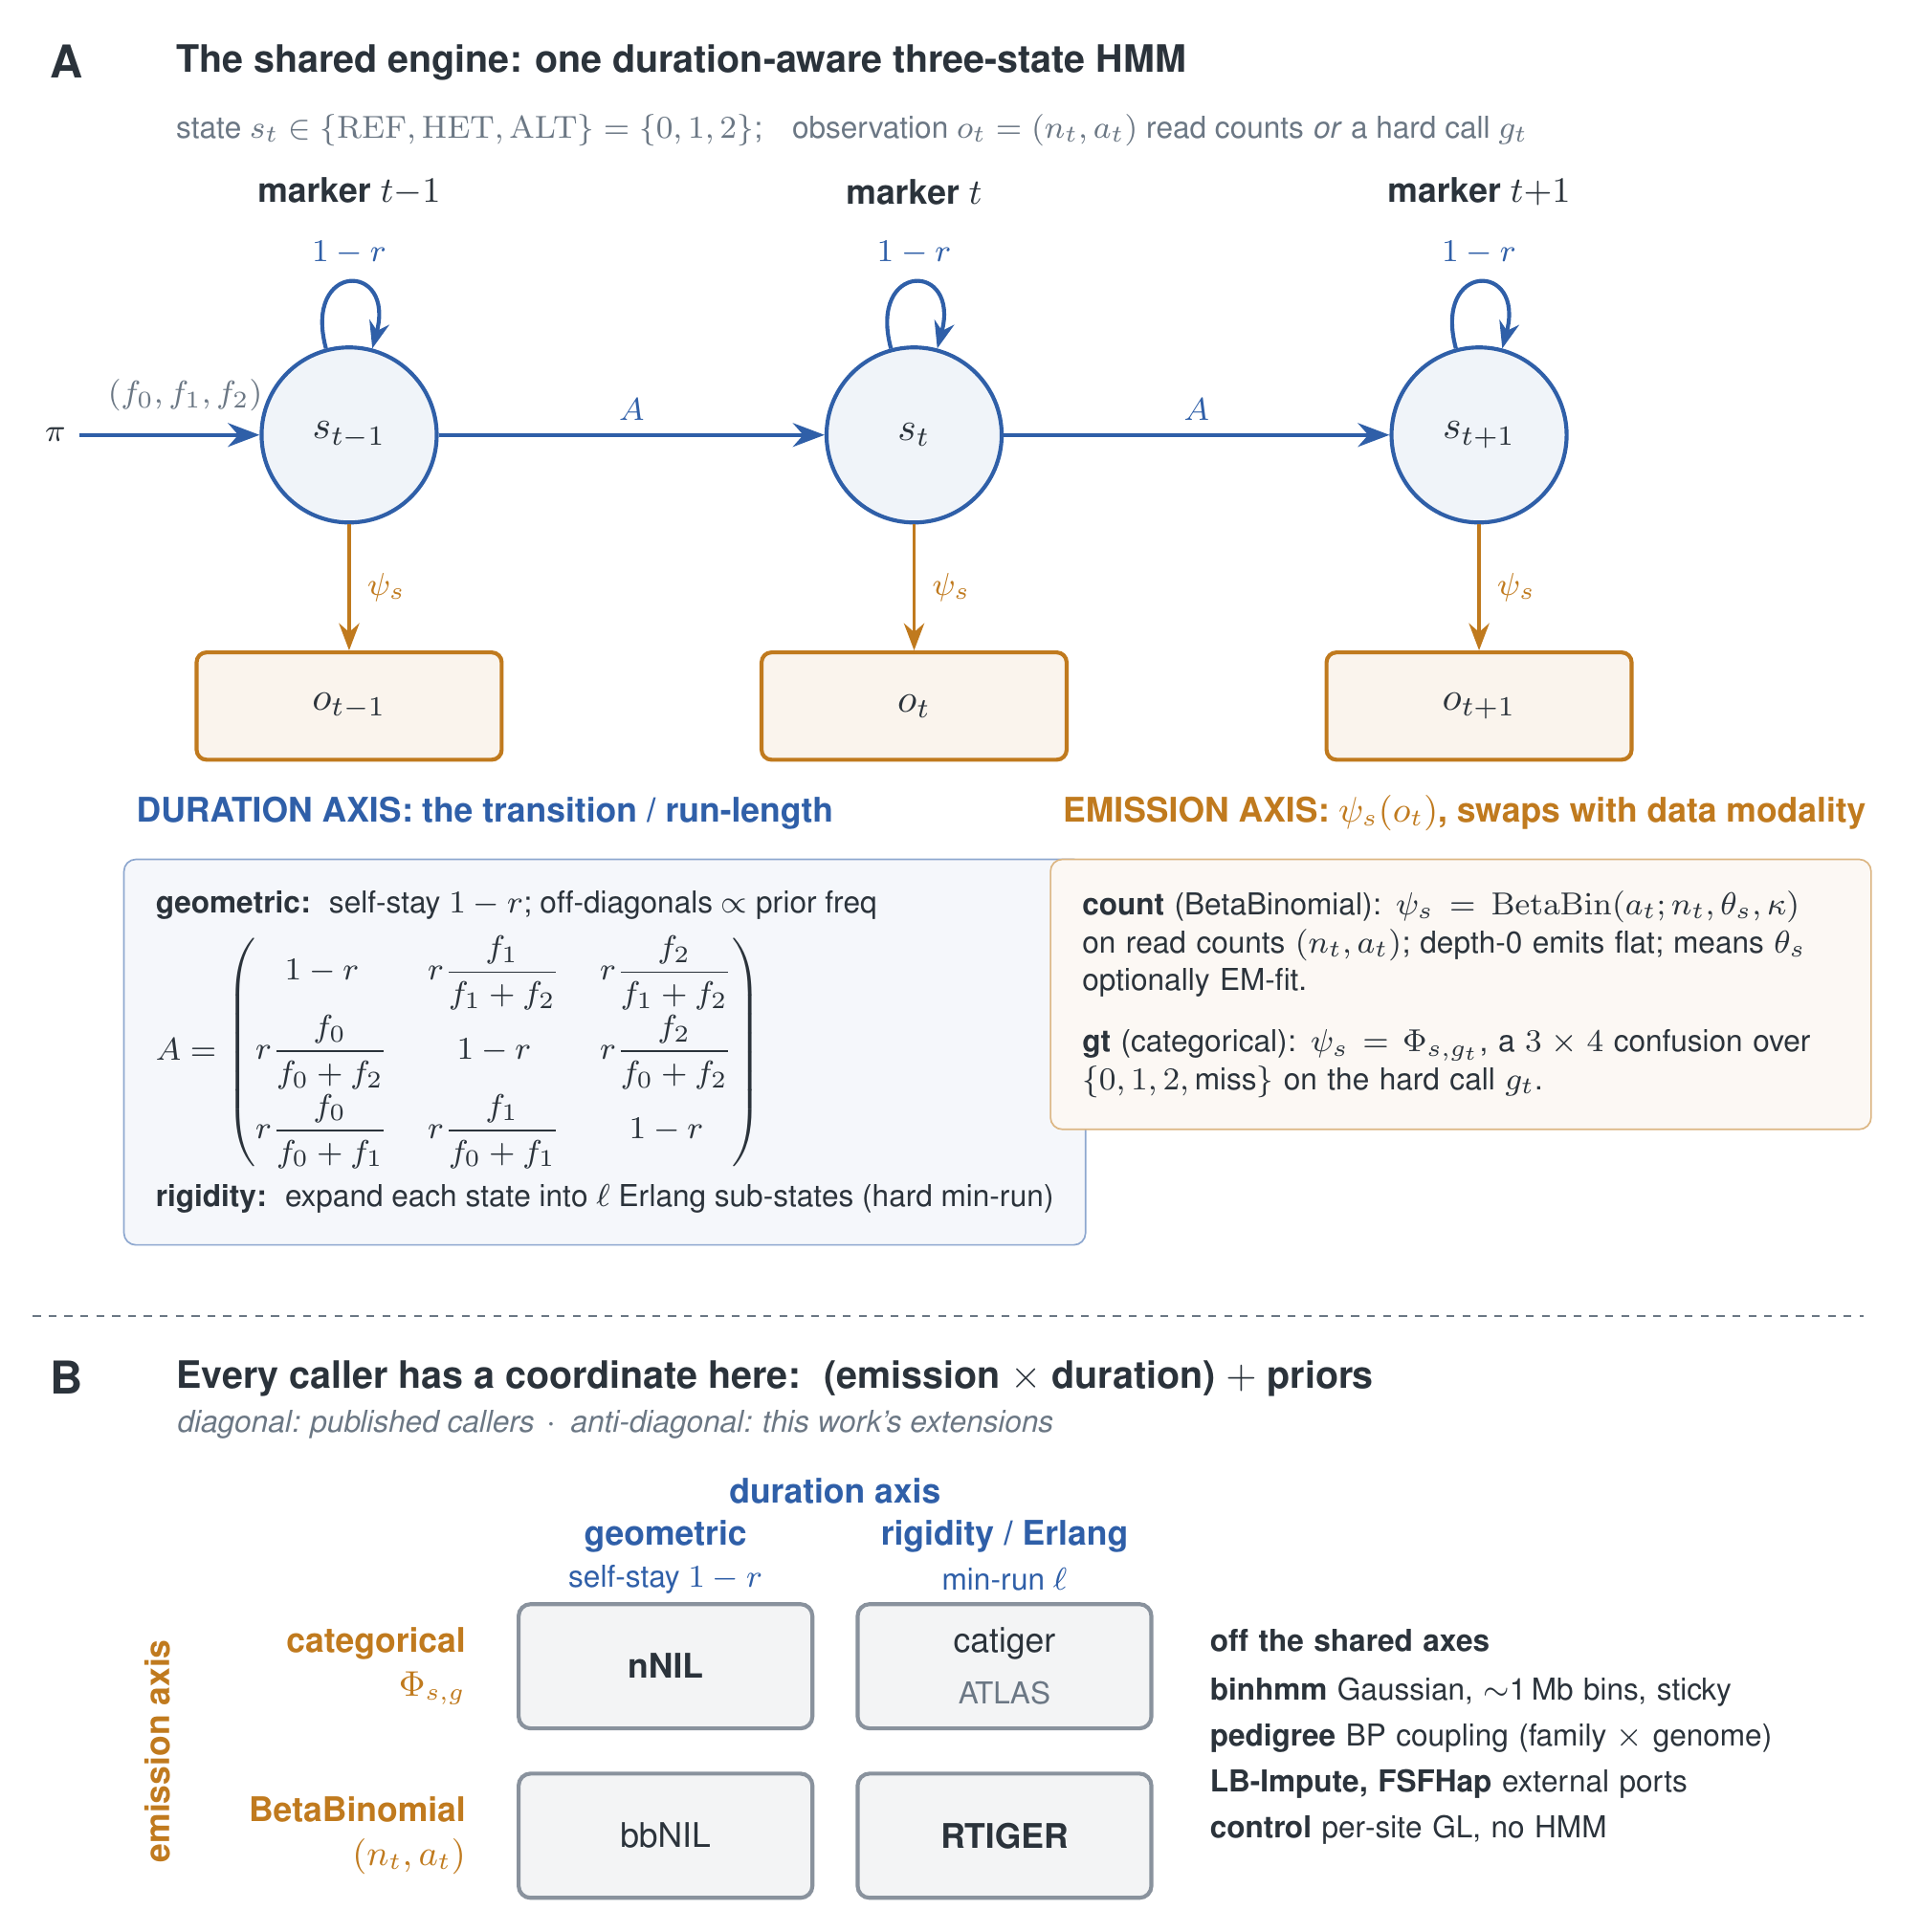
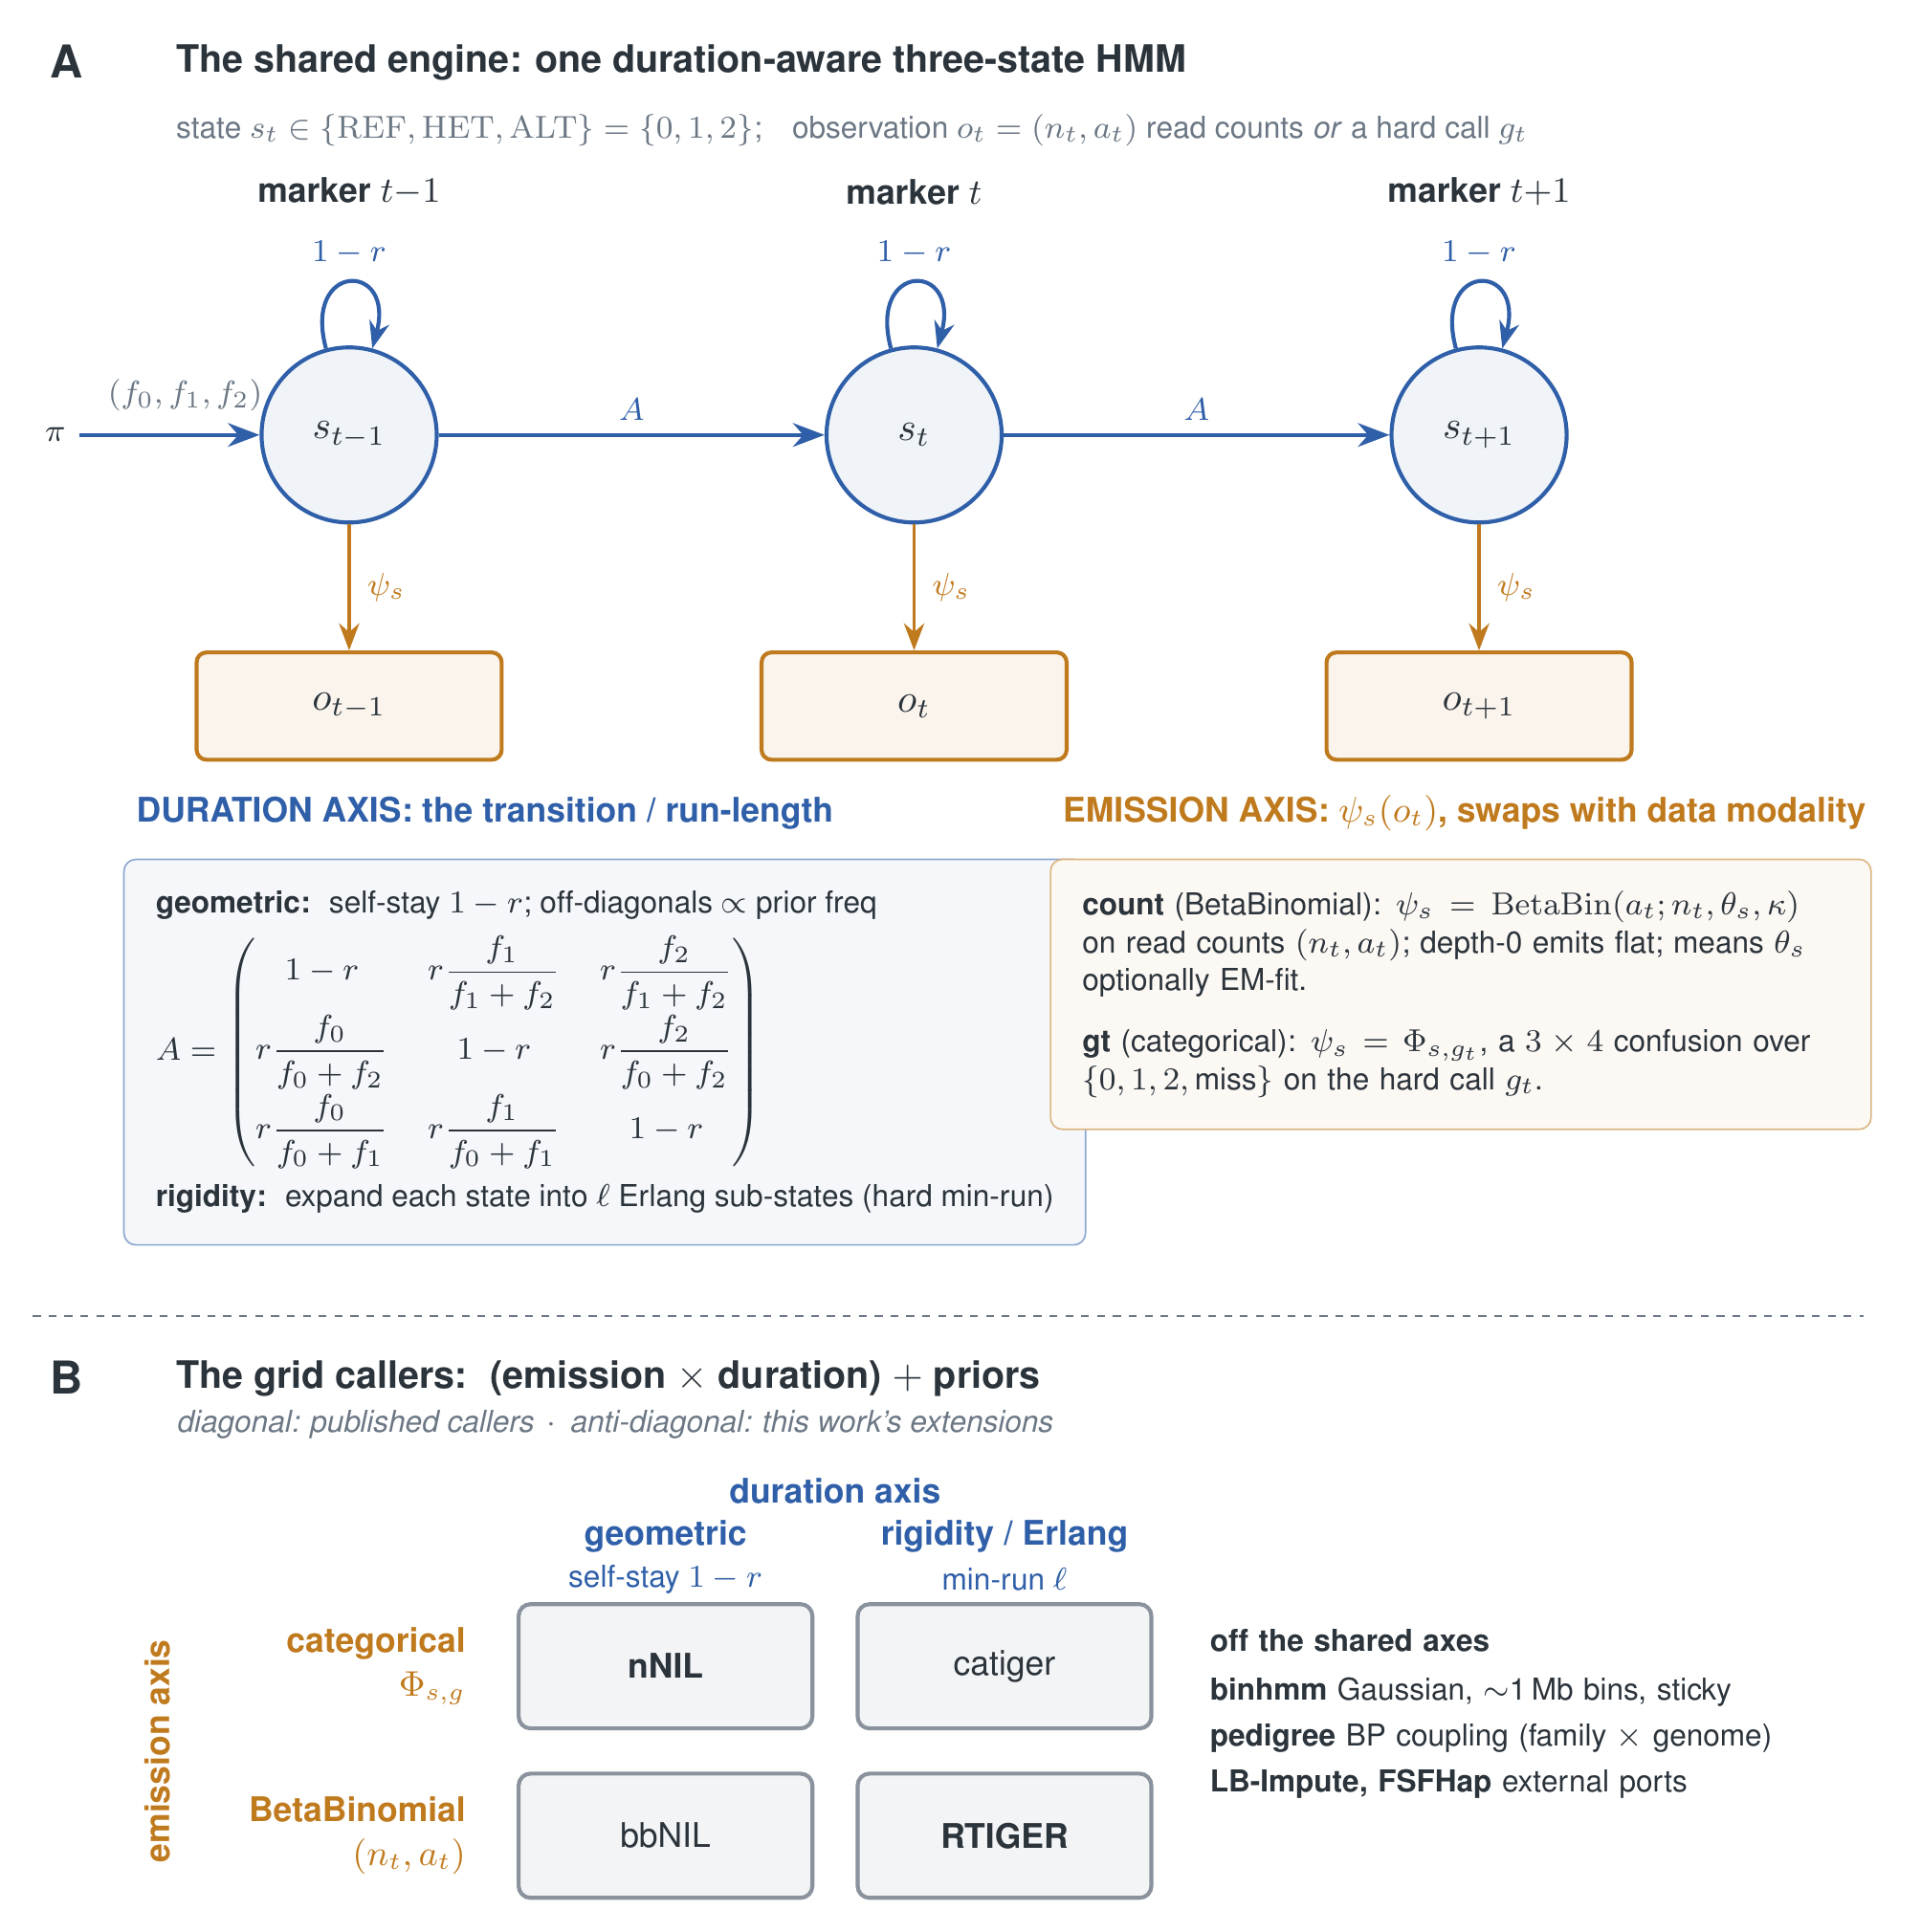
docs: correct ATLAS/GOOGA caller taxonomy; fix engine figure and caller table
Callers:
- GOOGA and ATLAS are the GOOGA-threshold categorical variants (competitive/
  ASE transcript data): GOOGA = categorical x geometric, a faithful port of
  Flagel's HMM (recombination-fraction transitions, no rigidity); ATLAS =
  categorical x rigidity, this work (min-run for sparse per-gene calls).
  Verified against nilHMM (R/engine.R caller enum) and Flagel 2019 / Veltsos
  2024. Reverses the earlier "ATLAS = GOOGA + catiger/nNIL" framing.

Fig 1 (fig:engine, figures/fig_engine.tex):
- panel B stays the 2x2 archetype grid (nNIL/catiger, bbNIL/RTIGER)
- catiger set non-bold to match bbNIL (this-work callers regular, published bold)
- removed the control caller (it is a genotype caller, not an ancestry caller)
- header "Every caller has a coordinate here" -> "The grid callers" (no overclaim)

Fig 2 (dispatcher, figures/dispatcher.tex):
- categorical channel now shows the threshold split: SNP/dosage arrays (plain
  hard calls) -> nNIL/catiger; GOOGA-thresholded transcripts -> GOOGA/ATLAS

Table 4 (tab:callers) + S4 prose (supplement_engine_math.tex):
- added GOOGA row and a threshold column; ATLAS moved to rigidity
- removed the control row; reworded control as the call_gt() genotype-MAP
  baseline, deliberately outside the ancestry-caller family

main.tex prose:
- removed the "every caller has a coordinate" overclaim (configuration of the
  engine for all callers; coordinate only for the four grid callers)
[…]

diff --git a/supplement_engine_math.tex b/supplement_engine_math.tex
@@ -567,41 +567,51 @@ given there.
 The named callers are not separate programs but points in the engine's
 $(\text{emission}\times\text{duration}+\text{priors})$ space
 (Table~\ref{tab:callers}; main-text Fig.~1; the data-channel view is Fig.~\ref{fig:dispatcher}). Four are the pure cells of the shared engine of
-Text~S3 --- the $(\text{emission}\times\text{duration})$ grid; a fifth, ATLAS, wraps GOOGA
-thresholding around catiger for competitive-mapping / ASE data; binhmm is an off-axis Gaussian
-track; two are faithful ports of external biparental imputers, carried as baselines; and one is a
+Text~S3 --- the $(\text{emission}\times\text{duration})$ grid; on the categorical emission a
+hard-call thresholding front-end splits each cell by data type, so GOOGA and ATLAS occupy the two
+categorical coordinates reached through GOOGA transcript thresholding (of competitive-alignment RNA)
+rather than the hard calls arrays already provide (GOOGA geometric, a faithful port; ATLAS rigidity, this
+work); binhmm is an off-axis Gaussian
+track; the family-coupled pedigree caller (Text~\ref{sec:pedigree}) adds a structural axis beyond the
+grid; two are faithful ports of external biparental imputers, carried as baselines; and one is a
 deliberately unsmoothed control. These biparental-population callers are the
 low-coverage analogues of the population-scale local-ancestry and haplotype-imputation
 HMMs \citep{falush_2003,hapmix_2009,rfmix_2013,ancestryhmm_2017,mosaic_2019,mach_2010,beagle_2007,stitch_2016,glimpse_2021},
 whose common premise --- that linkage structure reduces per-marker genotype
 uncertainty and thereby raises association power \citep{marchini_howie_2010} --- is
 the same one Text~S7 formalizes.
-\begin{table}[t]
+\begin{table}[tbp]
 \centering
-\small
-\begin{tabular}{@{}l l l l >{\raggedright\arraybackslash}p{4.6cm}@{}}
+\footnotesize
+\setlength{\tabcolsep}{3.5pt}
+\begin{tabular}{@{}l l l l l >{\raggedright\arraybackslash}p{4.3cm}@{}}
 \toprule
-caller & emission & duration & key param & role \\
+caller & emission & threshold & duration & key param & role \\
 \midrule
-nNIL      & categorical GT       & geometric            & \texttt{rrate}      & Holland's original nNIL; hard-call baseline \\
-catiger   & categorical GT       & rigidity             & \texttt{rigidity}   & hard-call $+$ min.\ run length; the categorical-rigidity caller \\
-bbNIL     & count / BetaBin      & geometric            & \texttt{rrate}      & low-coverage count extension; the self-transition \emph{is} the smoother \\
-RTIGER    & count / BetaBin      & rigidity             & \texttt{rigidity}   & min.\ run length; robust at low depth (Julia-free port) \\
-ATLAS     & categorical GT       & rigidity             & GOOGA thresh        & competitive-mapping (ASE) ancestry; wraps GOOGA thresholding around catiger \\
+nNIL      & categorical GT       & ---     & geometric            & \texttt{rrate}      & Holland's original nNIL; hard-call baseline \\
+catiger   & categorical GT       & ---     & rigidity             & \texttt{rigidity}   & hard-call $+$ min.\ run length (this work) \\
+GOOGA     & categorical GT       & GOOGA   & geometric            & \texttt{rrate}      & competitive-mapping (ASE) ancestry; faithful port of Flagel's HMM \\
+ATLAS     & categorical GT       & GOOGA   & rigidity             & \texttt{rigidity}   & GOOGA thresholds $+$ min.\ run for sparse per-gene calls (this work) \\
+bbNIL     & count / BetaBin      & ---     & geometric            & \texttt{rrate}      & low-coverage count extension; the self-transition \emph{is} the smoother \\
+RTIGER    & count / BetaBin      & ---     & rigidity             & \texttt{rigidity}   & min.\ run length; robust at low depth (Julia-free port) \\
 \midrule
-binhmm    & Gaussian / $1$\,Mb bins & sticky            & bin width           & pre-bin $\to$ 3-state Gaussian HMM; full SNP density (skim) \\
-LB-Impute & external             & linkage-decay dist.\ & \texttt{recombdist} & Fragoso \emph{et al.}\ biparental imputer (ported baseline) \\
-FSFHap    & external             & family-pooled EM     & \texttt{phet}       & TASSEL parent-call $+$ 5-state EM (ported baseline) \\
-control   & per-site GL, no HMM  & ---                  & ---                 & het-prone no-HMM baseline; the het-excess reference \\
+binhmm    & Gaussian / $1$\,Mb bins & ---  & sticky            & bin width           & pre-bin $\to$ 3-state Gaussian HMM; full SNP density (skim) \\
+LB-Impute & external             & ---     & linkage-decay dist.\ & \texttt{recombdist} & Fragoso \emph{et al.}\ biparental imputer (ported baseline) \\
+FSFHap    & external             & ---     & family-pooled EM     & \texttt{phet}       & TASSEL parent-call $+$ 5-state EM (ported baseline) \\
+pedigree  & count or GT          & ---     & pedigree $\times$ genome BP & \texttt{design} & family-coupled belief propagation; couples relatives across the pedigree \\
 \bottomrule
 \end{tabular}
-\caption{The caller family. Top: the four pure $(\text{emission}\times\text{duration})$ cells of the
+\caption{The caller family. Top: the $(\text{emission}\times\text{duration})$ cells of the
 shared engine of Text~S3 --- \textbf{nNIL}/\textbf{catiger} (categorical confusion emission;
-geometric/rigidity) and \textbf{bbNIL}/\textbf{RTIGER} (BetaBinomial; geometric/rigidity) --- plus
-\textbf{ATLAS}, a caller that wraps GOOGA competitive-mapping (allele-specific-expression)
-thresholding around catiger for RNA ancestry. Bottom: an off-axis Gaussian track, two external
-ports, and the no-HMM control. RTIGER and TIGER \citep{rtiger_2023,tiger_2015}; LB-Impute
-\citep{lbimpute_2016}.}
+geometric/rigidity) and \textbf{bbNIL}/\textbf{RTIGER} (BetaBinomial; geometric/rigidity). The
+\emph{threshold} column marks the hard-call front-end that feeds the categorical emission: nNIL/catiger
+consume the hard genotype calls SNP/dosage arrays already provide (no named thresholding step), while
+\textbf{GOOGA} and \textbf{ATLAS} reach the same two categorical coordinates through GOOGA transcript
+thresholding of competitive-alignment (allele-specific-expression) RNA --- GOOGA geometric (a faithful
+port of Flagel's HMM), ATLAS rigidity (this work). Bottom: an off-axis
+Gaussian track, two external ports, and the family-coupled \textbf{pedigree} caller (Text~\ref{sec:pedigree}).
+RTIGER and TIGER \citep{rtiger_2023,tiger_2015};
+GOOGA/ATLAS \citep{flagel2019,veltsos2024}; LB-Impute \citep{lbimpute_2016}.}
 \label{tab:callers}
 \end{table}
 
@@ -610,10 +620,12 @@ ports, and the no-HMM control. RTIGER and TIGER \citep{rtiger_2023,tiger_2015}; 
 \includegraphics[width=\textwidth]{figures/dispatcher.png}
 \caption{\textbf{The caller family as a data-channel dispatcher.} The observation channel (the
 assay) determines the valid emission --- a specification constraint, since the counts must
-actually obey the emission model --- and only the duration remains a free choice. Hard
-genotypes (arrays), and competitive/ASE counts once GOOGA-thresholded, take the categorical
-emission (nNIL/catiger, and ATLAS); dosage read counts take the BetaBinomial (bbNIL/RTIGER);
-binned allele fractions take a Gaussian (binhmm). The red $\times$ arrows mark the
+actually obey the emission model --- and only the duration remains a free choice, except on the
+categorical emission, where a hard-call thresholding front-end also forks by data type. Hard
+genotypes (SNP arrays) take the categorical emission directly as calls (geometric/rigidity
+$\to$ nNIL/catiger); competitive/ASE transcript counts take it via GOOGA thresholds (geometric/rigidity
+$\to$ GOOGA/ATLAS); dosage read counts take the BetaBinomial (bbNIL/RTIGER); binned allele fractions
+take a Gaussian (binhmm). The red $\times$ arrows mark the
 easily-misused routes that feed the BetaBinomial data it cannot model --- hard genotypes as
 pseudo-counts, and ASE counts whose allele fraction is expression-confounded --- both into
 RTIGER.}
@@ -625,19 +637,27 @@ at the categorical confusion model, \textbf{nNIL} (geometric --- Holland's origi
 \textbf{catiger} (rigidity) differ only in duration; holding it at the BetaBinomial, \textbf{bbNIL}
 (geometric) and \textbf{RTIGER} (rigidity) do the same. Read across the other axis, nNIL/bbNIL share
 the geometric duration and catiger/RTIGER share rigidity, differing only in emission. \textbf{catiger}
-is the categorical$+$rigidity caller. \textbf{ATLAS} applies it to competitive-alignment RNA data:
-because expression and allele-specific expression confound the allele fraction (so the BetaBinomial
-cannot model it), ATLAS thresholds the competitive counts to hard calls (GOOGA) and runs catiger ---
-a wrapper caller, GOOGA $+$ catiger. \textbf{binhmm} pre-bins to $\sim$1\,Mb before a 3-state
+is the categorical$+$rigidity caller. \textbf{GOOGA} and \textbf{ATLAS} reach the two categorical
+coordinates through a different hard-call front-end, for competitive-alignment RNA / ASE data: because
+expression and allele-specific expression confound the allele fraction (so the BetaBinomial cannot model
+it), both threshold the competitive counts to hard calls through GOOGA's per-marker error-rate model
+\citep{flagel2019} and then run the categorical genotype-confusion emission. GOOGA pairs it with the
+geometric duration --- a faithful port whose Markov chain transitions on recombination fractions between
+adjacent markers with no minimum-run constraint \citep{flagel2019,veltsos2024}; ATLAS substitutes the
+rigidity duration, a minimum-run prior suited to the sparse per-gene calls of transcript data (this work).
+This GOOGA thresholding is a front-end on the categorical emission, not a grid axis; the dispatcher
+(Fig.~\ref{fig:dispatcher}) routes each data channel to its caller. \textbf{binhmm} pre-bins to $\sim$1\,Mb before a 3-state
 Gaussian HMM, the only track that keeps the full marker density on skim data.
 \textbf{LB-Impute} and \textbf{FSFHap} are ported verbatim as external baselines ---
 each carries its own transition/imputation model (a distance-dependent
 recombination decay, and per-family EM haplotype imputation, respectively) but emits
-the common segment schema, so they are directly comparable. The \textbf{control} is
-the per-site genotype-likelihood MAP of Text~S2 with \emph{no} transition model; it
+the common segment schema, so they are directly comparable. The \emph{control} baseline
+is deliberately \emph{not} a member of this caller family: it is the per-site
+\emph{genotype} caller \texttt{call\_gt()} of Text~S2 invoked directly (the HWE-prior
+MAP, with \emph{no} transition model), separate from the ancestry callers above. It
 isolates exactly what the duration prior buys, and (being het-prone at low coverage,
-Eq.~\eqref{eq:hwe-ratio}) is scored by its donor-called fraction on a known-recurrent
-control region --- the ``het-excess'' reference the HMM callers must beat.
+Eq.~\eqref{eq:hwe-ratio}) is scored by its donor-called fraction on a known
+recurrent-parent region --- the ``het-excess'' baseline every ancestry caller must beat.
 
 %======================================================================
 \section{The \texttt{simcross} model and single-locus validation}

diff --git a/main.tex b/main.tex
@@ -141,16 +141,21 @@ One HMM over states REF/HET/ALT (Figure~\ref{fig:engine}A). Two axes are swappab
 and define each caller: the \emph{emission} (count/BetaBinomial vs.\ categorical
 genotype-confusion) and the \emph{duration/rigidity} layer (geometric, rigidity, or
 HSMM). Design start-priors come from the pedigree (BC2S2/BC2S3). The engine is
-data-agnostic: $(\text{data}, \text{params}) \rightarrow \text{calls}$. Every named
-caller is a coordinate in this (emission $\times$ duration) space
-(Figure~\ref{fig:engine}B), and on real ZEAL NILs the callers produce concordant
-ancestry paint across data sources through this one engine (Figure~\ref{fig:paint}).
+data-agnostic: $(\text{data}, \text{params}) \rightarrow \text{calls}$. Each named
+caller is a configuration of this one engine, the grid callers being coordinates in
+its (emission $\times$ duration) space (Figure~\ref{fig:engine}B), and on real ZEAL NILs
+the callers produce concordant ancestry paint across data sources (Figure~\ref{fig:paint}).
 
 
 
 \subsection{The callers}
-Each named caller is a coordinate in the (emission $\times$ duration) grid
-(Figure~\ref{fig:engine}B); the four grid callers differ only along those two axes.
+The four grid callers are coordinates in the (emission $\times$ duration) grid
+(Figure~\ref{fig:engine}B), differing along those two axes. On the categorical
+emission a hard-call thresholding front-end additionally splits the channel by data
+type: SNP arrays deliver hard calls directly (nNIL, catiger), whereas
+competitive-alignment transcripts are thresholded to calls by GOOGA's error-rate model
+(GOOGA, ATLAS); this front-end is not a grid axis and is resolved by data channel in the
+dispatcher view.
 \subsubsection{nNIL} Categorical genotype-confusion emission with a geometric
 duration: Holland's original near-isogenic-line caller, on hard genotype calls
 \citep{zhong2025}.
@@ -162,10 +167,18 @@ minimum-run) duration in place of the free geometric one; a Julia-free port
 \citep{rtiger_2023}.
 \subsubsection{catiger} Categorical emission with the rigidity duration: the
 categorical$+$rigidity caller.
-\subsubsection{ATLAS} An RNA caller: because expression and allele-specific
-expression confound the competitive-alignment allele fraction (so the BetaBinomial
-cannot model it), ATLAS thresholds the competitive counts to hard genotype calls
-(GOOGA) and runs catiger: a wrapper, GOOGA $+$ catiger \citep{flagel2019,veltsos2024}.
+\subsubsection{GOOGA and ATLAS} The categorical route for competitive-alignment
+transcript data (BRB-seq RNA / ASE), where expression and allele-specific expression
+confound the allele fraction so the BetaBinomial cannot model it. Both threshold the
+competitive counts to hard genotype calls through GOOGA's per-marker error-rate model
+and then apply the categorical genotype-confusion emission; they differ only in
+duration. \textbf{GOOGA} pairs it with the geometric (recombination-fraction) duration,
+a faithful port of Flagel's HMM \citep{flagel2019,veltsos2024}, which transitions
+on recombination fractions between adjacent markers with no minimum-run constraint.
+\textbf{ATLAS} substitutes the rigidity duration, a minimum-run prior suited to the
+sparse per-gene calls of transcript data (this work). GOOGA and ATLAS thus sit at the
+same two categorical coordinates as nNIL and catiger, reached by thresholding transcript
+counts to calls rather than by consuming the hard calls arrays already provide.
 \subsubsection{binhmm} A three-state Gaussian emission on per-bin allele frequency
 with REF anchored at the coverage floor (dense skim only); off the shared axes.
 \subsubsection{External baselines and control} Two established biparental imputers
@@ -230,7 +243,7 @@ not raw low-coverage resequencing.
 \begin{figure*}[ht!]
 \centering
 \includegraphics[width=\textwidth]{figures/fig_engine.png}
-\caption{\textbf{One engine; every caller has a coordinate in it.}
+\caption{\textbf{One engine; every caller a configuration of it.}
 \textbf{A} The shared duration-aware three-state HMM. Hidden ancestry
 $s_t\in\{\mathrm{REF},\mathrm{HET},\mathrm{ALT}\}$ evolves along the marker sequence
 with self-transition $1-r$ and transition matrix $A$, emitting the observation $o_t$
@@ -241,10 +254,12 @@ state-expansion with minimum run length $\ell$) and the \emph{emission} axis
 (BetaBinomial on read counts, or a categorical genotype-confusion), chosen by data
 modality. \textbf{B} The named callers as coordinates in the (emission $\times$
 duration) grid: \textbf{nNIL} and \textbf{RTIGER} on the published main diagonal, and
-bbNIL and catiger on the anti-diagonal (this work's extensions). \textbf{ATLAS} wraps
-GOOGA competitive-mapping (allele-specific-expression) thresholding around catiger for
-RNA ancestry; binhmm, the pedigree caller, the external ports (LB-Impute, FSFHap), and
-the no-HMM control sit off the shared axes.}
+bbNIL and catiger on the anti-diagonal (this work's extensions). The categorical
+threshold variants for transcript data, \textbf{GOOGA} (geometric, a faithful port)
+and \textbf{ATLAS} (rigidity, this work), share the two categorical coordinates and
+are resolved by data channel in the dispatcher view rather than shown as a separate
+axis; binhmm, the pedigree caller, and the external ports (LB-Impute, FSFHap) sit off
+the shared axes.}
 \label{fig:engine}
 \end{figure*}
 
@@ -498,7 +513,8 @@ architecture, but not the full noise of real low-coverage resequencing.
 In practice the engine makes the choice of caller a choice of data channel. Skim DNA
 read counts take the BetaBinomial callers (bbNIL, or RTIGER when a hard minimum run is
 wanted); competitive/ASE RNA counts, whose allele fraction is expression-confounded,
-take the categorical route (ATLAS $=$ GOOGA $+$ catiger); and saturated hard genotypes
+take the GOOGA-thresholded categorical route (GOOGA if geometric, ATLAS if a minimum
+run is wanted); and saturated hard genotypes
 collapse to the categorical nNIL at lower cost. The cross-modality application
 generalizes this on real ZEAL NILs, with a calibrated-RNA update the natural next step,
 and phenotype-driven applications such as $B1$ anthocyanin mapping follow directly once

diff --git a/figures/fig_engine.tex b/figures/fig_engine.tex
@@ -101,7 +101,7 @@
 % ============================================================= PANEL (b)
 \node[plabel] at (-0.3,0.05) {B};
 \node[font=\bfseries, text=ink, anchor=west] at (0.55,0.05)
-   {Every caller has a coordinate here:\; (emission $\times$ duration) $+$ priors};
+   {The grid callers:\; (emission $\times$ duration) $+$ priors};
 \node[font=\footnotesize\itshape, text=softgray, anchor=west] at (0.55,-0.36)
    {diagonal: published callers\, $\cdot$\, anti-diagonal: this work's extensions};
 
@@ -130,20 +130,19 @@
   fullcell/.style={cell, draw=softgray!80, fill=softgray!8, line width=1pt},
   pill/.style={font=\small\bfseries, text=ink}}
 % categorical row: nNIL (geometric), catiger (rigidity)
+% (threshold-source variants GOOGA/ATLAS live in the dispatcher figure, not on these axes)
 \node[fullcell] at (\cLx,\rTy) {}; \node[pill] at (\cLx,\rTy) {nNIL};
-\node[fullcell] at (\cRx,\rTy) {};
-\node[pill, font=\small, align=center] at (\cRx,\rTy) {catiger\\[2pt]{\footnotesize\textcolor{softgray}{ATLAS}}};
+\node[fullcell] at (\cRx,\rTy) {}; \node[pill, font=\small] at (\cRx,\rTy) {catiger};
 % BetaBinomial row: bbNIL (geometric), RTIGER (rigidity)
 \node[fullcell] at (\cLx,\rBy) {}; \node[pill, font=\small] at (\cLx,\rBy) {bbNIL};
 \node[fullcell] at (\cRx,\rBy) {}; \node[pill] at (\cRx,\rBy) {RTIGER};
 
-% ---- right column: off the shared axes (ATLAS listed here) ----
+% ---- right column: off the shared axes ----
 \node[font=\footnotesize, text=ink, anchor=north west, align=left, text width=5.9cm] at (9.7,-2.05) {%
   \textbf{off the shared axes}\\[3pt]
   \textbf{binhmm} Gaussian, $\sim$1\,Mb bins, sticky\\[2pt]
   \textbf{pedigree} BP coupling (family $\times$ genome)\\[2pt]
-  \textbf{LB-Impute, FSFHap} external ports\\[2pt]
-  \textbf{control} per-site GL, no HMM};
+  \textbf{LB-Impute, FSFHap} external ports};
 
 \end{tikzpicture}
 \end{document}

diff --git a/figures/dispatcher.tex b/figures/dispatcher.tex
@@ -35,8 +35,8 @@
 \node[colhead] at (7.3,-1.05) {valid emission};
 \node[colhead] at (12.0,-1.05) {$+$ duration $\to$ caller};
 
-% row 1: hard genotypes -> categorical -> nNIL / catiger
-\node[chbox] (ch1) at (2.6,-2.0) {hard genotypes\\(SNP arrays)};
+% row 1: hard genotypes (arrays, already called) -> categorical -> nNIL / catiger
+\node[chbox] (ch1) at (2.6,-2.0) {hard genotypes\\(SNP / dosage arrays)};
 \node[embox] (em1) at (7.3,-2.0) {categorical $\Phi_{s,g}$};
 \node[cabox] (ca1) at (12.0,-2.0) {geom $\to$ \textbf{nNIL}\\rigid $\to$ \textbf{catiger}};
 \draw[flow] (ch1) -- (em1);   \draw[flow] (em1) -- (ca1);
@@ -47,10 +47,10 @@
 \node[cabox] (ca2) at (12.0,-3.25) {geom $\to$ \textbf{bbNIL}\\rigid $\to$ \textbf{RTIGER}};
 \draw[flow] (ch2) -- (em2);   \draw[flow] (em2) -- (ca2);
 
-% row 3: competitive / ASE -> (ATLAS threshold) categorical -> nNIL / catiger
-\node[chbox] (ch3) at (2.6,-4.5) {competitive counts\\(RNA / ASE)};
+% row 3: competitive / ASE -> categorical (GOOGA threshold) -> GOOGA (geom) / ATLAS (rigid)
+\node[chbox] (ch3) at (2.6,-4.5) {competitive counts\\(transcript, RNA / ASE)};
 \node[embox] (em3) at (7.3,-4.5) {categorical $\Phi_{s,g}$\\[-1pt]{\footnotesize\color{softgray}via GOOGA threshold}};
-\node[cabox] (ca3) at (12.0,-4.5) {rigid $\to$ \textbf{ATLAS}\\[-1pt]{\footnotesize\color{softgray}(GOOGA $+$ catiger)}};
+\node[cabox] (ca3) at (12.0,-4.5) {geom $\to$ \textbf{GOOGA}\\rigid $\to$ \textbf{ATLAS}};
 \draw[flow] (ch3) -- (em3);
 \draw[flow] (em3) -- (ca3);
 